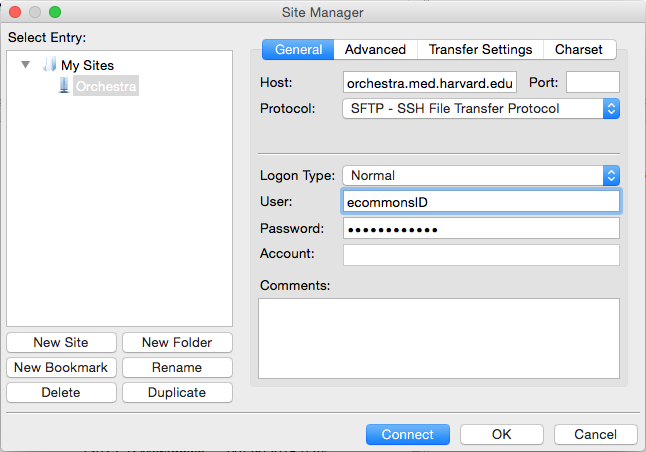
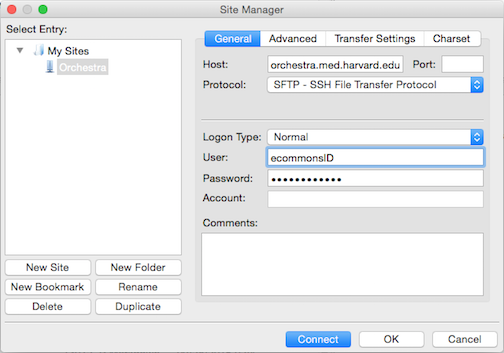
Added images for Filezilla and FastQC plots

diff --git a/lessons/06_QC_trimming.md b/lessons/06_QC_trimming.md
@@ -123,7 +123,7 @@ Once your interactive job starts, notice that the command prompt has changed; th
 
 Before we start using software, we have to load the environments for each software package. On clusters, this is typically done using a **module** system. 
 
-If we check which modules we currently have loaded, we should not see Fastqc.
+If we check which modules we currently have loaded, we should not see FastQC.
 
 `$ module list`
 
@@ -131,7 +131,7 @@ If we try to run FastQC on one of our fastq files, Orchestra won't be able to fi
 
 `$ fastqc Mov10_oe_1.subset.fq`
 
-This is because the fastqc program is not in our $PATH (i.e. its not in a directory that unix will automatically check to run commands/programs).
+This is because the FastQC program is not in our $PATH (i.e. its not in a directory that unix will automatically check to run commands/programs).
 
 `$ $PATH`
 
@@ -161,7 +161,7 @@ Exit the interactive session and start a new one with 6 cores, and use the multi
 	
 `$ fastqc -t 6 *.fq`      #note the extra parameter we specified for 6 threads
 
-How did I know the -t argument for FastQC?
+How did I know about the -t argument for FastQC?
 
 `$ fastqc -help`
 
@@ -185,27 +185,43 @@ Let's take a closer look at the files generated by FastQC:
 ##### HTML reports
 The .html files contain the final reports generated by fastqc, let's take a closer look at them. Transfer one of them over to your laptop via *FileZilla*.
 
-Open FileZilla, and click on the File tab. Choose 'Site Manager':
+######Filezilla - Step 1
 
+Open FileZilla, and click on the File tab. Choose 'Site Manager'.
+ 
 ![FileZilla_step1](../img/Filezilla_step1.png)
 
+######Filezilla - Step 2
+
 Within the 'Site Manager' window, do the following: 
-	
-![FileZilla_step2](../img/Filezilla_step2.png)
 
 1. Click on 'New Site', and name it something intuitive (e.g. Orchestra)
 2. Host: orchestra.med.harvard.edu 
 3. Protocol: SFTP - SSH File Transfer Protocol
 4. Logon Type: Normal
-5. User: your ECommons ID
-6. Password: your ECommons password
+5. User: ECommons ID
+6. Password: ECommons password
 7. Click 'Connect'
+	
+![FileZilla_step2](../img/Filezilla_step2.png)
+
+
 	
 ***FastQC is just an indicator of what's going on with your data, don't take the "PASS"es and "FAIL"s too seriously.***
 
 FastQC has a really well documented [manual page](http://www.bioinformatics.babraham.ac.uk/projects/fastqc/) with [more details](http://www.bioinformatics.babraham.ac.uk/projects/fastqc/Help/) about all the plots in the report.
 
 We recommend looking at [this post](http://bioinfo-core.org/index.php/9th_Discussion-28_October_2010) for more information on what bad plots look like and what they mean for your data.
+
+We will focus on two of the most important analysis modules in FastQC to examine, the "Per base sequence quality" plot and the "Overrepresented sequences" table. 
+
+The "Per base sequence quality" plot provides the distribution of quality scores across all bases at each position in the reads.
+
+![FastQC_seq_qual](../img/FastQC_seq_qual.png)
+
+The "Overrepresented sequences" table displays the sequences (at least 20 bp) that occur more than 0.1% of the total number of sequences. This table aids in identifying contamination, such as vector or adapter sequences. 
+
+![FastQC_contam](../img/FastQC_contam.png)
 
 ##### .zip files   
 
